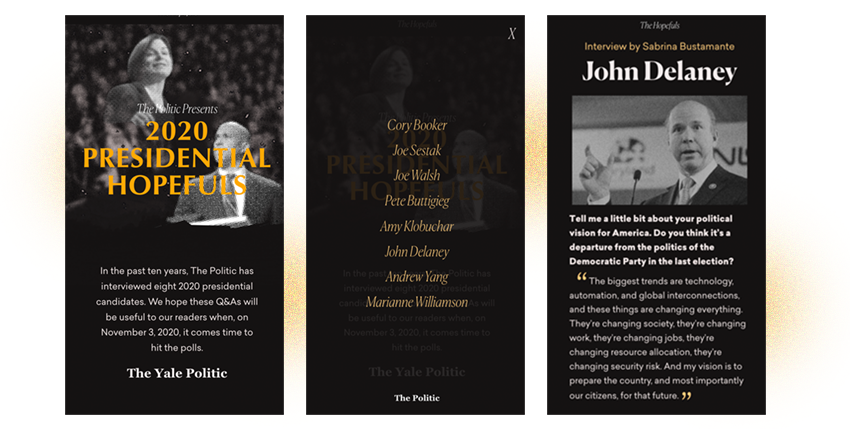
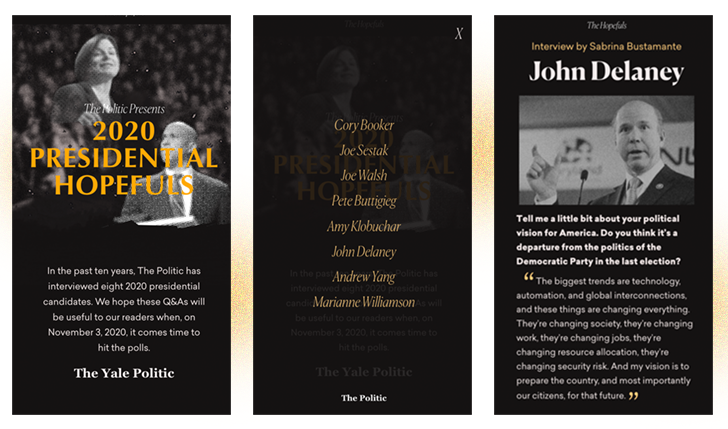
Adjust asset sizing, fix mobile errs

diff --git a/public/assets/styles/theme-portfolio.css b/public/assets/styles/theme-portfolio.css
@@ -1,5 +1,5 @@
 @import url(https://use.typekit.net/cuk4jse.css);
 @font-face{font-family:'Sporting Grotesque';src:url("https://chiaski.com/assets/fonts/Sporting%20Grotesque/SportingGrotesque-Bold.eot");src:url("https://chiaski.com/assets/fonts/Sporting%20Grotesque/SportingGrotesque-Bold.eot?#iefix") format("embedded-opentype"),url("https://chiaski.com/assets/fonts/Sporting%20Grotesque/SportingGrotesque-Bold.woff") format("woff"),url("https://chiaski.com/assets/fonts/Sporting%20Grotesque/SportingGrotesque-Bold.ttf") format("truetype"),url("https://chiaski.com/assets/fonts/Sporting%20Grotesque/SportingGrotesque-Bold.svg#SportingGrotesque-Bold") format("svg");font-weight:bold;font-style:normal}@font-face{font-family:'Sporting Grotesque';src:url("https://chiaski.com/assets/fonts/Sporting%20Grotesque/SportingGrotesque-Regular.eot");src:url("https://chiaski.com/assets/fonts/Sporting%20Grotesque/SportingGrotesque-Regular.eot?#iefix") format("embedded-opentype"),url("https://chiaski.com/assets/fonts/Sporting%20Grotesque/SportingGrotesque-Regular.woff") format("woff"),url("https://chiaski.com/assets/fonts/Sporting%20Grotesque/SportingGrotesque-Regular.ttf") format("truetype"),url("https://chiaski.com/assets/fonts/Sporting%20Grotesque/SportingGrotesque-Regular.svg#SportingGrotesque-Regular") format("svg");font-weight:normal;font-style:normal}@font-face{font-family:'Sporting Grotesque';src:url("https://chiaski.com/assets/fonts/Sporting%20Grotesque/SportingGrotesque-Bold_1.eot");src:url("https://chiaski.com/assets/fonts/Sporting%20Grotesque/SportingGrotesque-Bold_1.eot?#iefix") format("embedded-opentype"),url("https://chiaski.com/assets/fonts/Sporting%20Grotesque/SportingGrotesque-Bold_1.woff") format("woff"),url("https://chiaski.com/assets/fonts/Sporting%20Grotesque/SportingGrotesque-Bold_1.ttf") format("truetype"),url("https://chiaski.com/assets/fonts/Sporting%20Grotesque/SportingGrotesque-Bold_1.svg#SportingGrotesque-Bold") format("svg");font-weight:bold;font-style:normal}@font-face{font-family:'Sporting Grotesque';src:url("https://chiaski.com/assets/fonts/Sporting%20Grotesque/SportingGrotesque-Regular_1.eot");src:url("https://chiaski.com/assets/fonts/Sporting%20Grotesque/SportingGrotesque-Regular_1.eot?#iefix") format("embedded-opentype"),url("https://chiaski.com/assets/fonts/Sporting%20Grotesque/SportingGrotesque-Regular_1.woff") format("woff"),url("https://chiaski.com/assets/fonts/Sporting%20Grotesque/SportingGrotesque-Regular_1.ttf") format("truetype"),url("https://chiaski.com/assets/fonts/Sporting%20Grotesque/SportingGrotesque-Regular_1.svg#SportingGrotesque-Regular") format("svg");font-weight:normal;font-style:normal}@font-face{font-family:'Sporting Grotesque';src:url("https://chiaski.com/assets/fonts/Sporting%20Grotesque/font.eot");src:url("https://chiaski.com/assets/fonts/Sporting%20Grotesque/font.eot?#iefix") format("embedded-opentype"),url("https://chiaski.com/assets/fonts/Sporting%20Grotesque/font.woff") format("woff"),url("https://chiaski.com/assets/fonts/Sporting%20Grotesque/font.ttf") format("truetype"),url("https://chiaski.com/assets/fonts/Sporting%20Grotesque/font.svg#font") format("svg");font-weight:bold;font-style:normal}@font-face{font-family:'Sporting Grotesque';src:url("https://chiaski.com/assets/fonts/Sporting%20Grotesque/font_1.eot");src:url("https://chiaski.com/assets/fonts/Sporting%20Grotesque/font_1.eot?#iefix") format("embedded-opentype"),url("https://chiaski.com/assets/fonts/Sporting%20Grotesque/font_1.woff") format("woff"),url("https://chiaski.com/assets/fonts/Sporting%20Grotesque/font_1.ttf") format("truetype"),url("https://chiaski.com/assets/fonts/Sporting%20Grotesque/font_1.svg#font") format("svg");font-weight:normal;font-style:normal}@font-face{font-family:'Sporting Grotesque';src:url("https://chiaski.com/assets/fonts/Sporting%20Grotesque/SportingGrotesque-Bold_2.eot");src:url("https://chiaski.com/assets/fonts/Sporting%20Grotesque/SportingGrotesque-Bold_2.eot?#iefix") format("embedded-opentype"),url("https://chiaski.com/assets/fonts/Sporting%20Grotesque/SportingGrotesque-Bold_2.woff") format("woff"),url("https://chiaski.com/assets/fonts/Sporting%20Grotesque/SportingGrotesque-Bold_2.ttf") format("truetype"),url("https://chiaski.com/assets/fonts/Sporting%20Grotesque/SportingGrotesque-Bold_2.svg#SportingGrotesque-Bold") format("svg");font-weight:bold;font-style:normal}@font-face{font-family:'Sporting Grotesque';src:url("https://chiaski.com/assets/fonts/Sporting%20Grotesque/SportingGrotesque-Regular_2.eot");src:url("https://chiaski.com/assets/fonts/Sporting%20Grotesque/SportingGrotesque-Regular_2.eot?#iefix") format("embedded-opentype"),url("https://chiaski.com/assets/fonts/Sporting%20Grotesque/SportingGrotesque-Regular_2.woff") format("woff"),url("https://chiaski.com/assets/fonts/Sporting%20Grotesque/SportingGrotesque-Regular_2.ttf") format("truetype"),url("https://chiaski.com/assets/fonts/Sporting%20Grotesque/SportingGrotesque-Regular_2.svg#SportingGrotesque-Regular") format("svg");font-weight:normal;font-style:normal}@font-face{font-family:'Sporting Grotesque';src:url("https://chiaski.com/assets/fonts/Sporting%20Grotesque/SportingGrotesque-Regular_3.eot");src:url("https://chiaski.com/assets/fonts/Sporting%20Grotesque/SportingGrotesque-Regular_3.eot?#iefix") format("embedded-opentype"),url("https://chiaski.com/assets/fonts/Sporting%20Grotesque/SportingGrotesque-Regular_3.woff") format("woff"),url("https://chiaski.com/assets/fonts/Sporting%20Grotesque/SportingGrotesque-Regular_3.ttf") format("truetype"),url("https://chiaski.com/assets/fonts/Sporting%20Grotesque/SportingGrotesque-Regular_3.svg#SportingGrotesque-Regular") format("svg");font-weight:normal;font-style:normal}@font-face{font-family:'Sporting Grotesque';src:url("https://chiaski.com/assets/fonts/Sporting%20Grotesque/SportingGrotesque-Bold_3.eot");src:url("https://chiaski.com/assets/fonts/Sporting%20Grotesque/SportingGrotesque-Bold_3.eot?#iefix") format("embedded-opentype"),url("https://chiaski.com/assets/fonts/Sporting%20Grotesque/SportingGrotesque-Bold_3.woff") format("woff"),url("https://chiaski.com/assets/fonts/Sporting%20Grotesque/SportingGrotesque-Bold_3.ttf") format("truetype"),url("https://chiaski.com/assets/fonts/Sporting%20Grotesque/SportingGrotesque-Bold_3.svg#SportingGrotesque-Bold") format("svg");font-weight:bold;font-style:normal}
 
-::-moz-selection{background:#161f8d;color:#f8eded}::selection{background:#161f8d;color:#f8eded}html{scroll-behavior:smooth}#footer{background:#001a19;box-sizing:border-box;text-align:center;width:100%;padding:2em;margin-top:2em;display:block}#footer a{font-family:"Sporting Grotesque";text-decoration:none;display:inline-block}#footer .main-link{color:#f2e4e4 !important;display:block;font-size:1.2em;-webkit-transition:all .3s linear;-moz-transition:all .3s linear;-ms-transition:all .3s linear;-o-transition:all .3s linear;transition:all .3s linear}#footer .main-link:hover{color:yellow !important}#footer .footer-links{color:#fff}#footer .footer-links h2{font-size:1em;font-family:"aktiv-grotesk-extended"}#footer .footer-links a{color:blue;font-size:.8em;line-height:1.2em;margin:0 .3em 0 .3em}#footer .sub-link{font-family:"aktiv-grotesk-extended";color:#f0f8f7;padding:.3em;-webkit-transition:all .3s linear;-moz-transition:all .3s linear;-ms-transition:all .3s linear;-o-transition:all .3s linear;transition:all .3s linear}#footer .sub-link:hover{background:#f0f8f7;color:#000}a{text-decoration:none}img{max-width:100%;align-content:center;justify-content:center;vertical-align:center;margin:auto;display:block;padding:1em}#navigation .white a{color:#f0f8f7}.box{background:none;width:100%;margin:0 !important}.box-inner{margin:2em !important}.box-still{position:fixed;top:0}.portfolio-landing{-webkit-transition:all .3s linear;-moz-transition:all .3s linear;-ms-transition:all .3s linear;-o-transition:all .3s linear;transition:all .3s linear}.portfolio-landing:hover{filter:grayscale(0.5)}.portfolio-landing:hover h1{color:transparent !important;-webkit-text-stroke:1px #f0f8f7}#portfolio{cursor:none !important}#portfolio .portfolio-links{text-align:center;padding:1em}#portfolio .portfolio-links a{font-family:"aktiv-grotesk-extended";padding:.5em !important;background:none !important;color:#2d1080 !important;border-bottom:1px solid #2d1080}#portfolio .portfolio-links a:hover{background:yellow !important;border:none}#portfolio .portfolio-landing{vertical-align:center;justify-content:center;padding:1em}#portfolio .portfolio-landing h1{text-align:center;font-size:3.2em;color:#f0f8f7;flex-basis:100%}#portfolio .portfolio-landing h3{font-size:1.3em;font-family:"aktiv-grotesk-extended"}#portfolio .portfolio-landing p{margin:.5em}#portfolio .portfolio-landing .portfolio-overview{text-align:center}#portfolio .portfolio-landing .portfolio-overview p{font-size:.9em;font-family:"Aktiv-grotesk-extended";line-height:1.1em}#portfolio .portfolio-landing .project-contents{display:block;padding:1em;text-align:center}#portfolio .portfolio-landing .project-contents a{display:inline-block;max-width:130px;margin:0 .6em 0 .6em;font-family:"Sporting Grotesque";font-size:.8em;border-bottom:1px solid #f4e9e9;line-height:1em;padding:.3em;text-decoration:none;-webkit-transition:all .3s linear;-moz-transition:all .3s linear;-ms-transition:all .3s linear;-o-transition:all .3s linear;transition:all .3s linear;color:#f0f8f7}#portfolio .portfolio-landing .project-contents a:hover{background:#f0f8f7;color:#000;text-decoration:none}@media only screen and (max-width: 600px){#portfolio .portfolio-landing .project-contents{display:block;float:none;margin:1em;margin-top:50px}#portfolio .portfolio-landing .portfolio-overview{float:none}}#portfolio .portfolio-last h3{text-align:center}#portfolio .portfolio-description a{background:#2b13af;padding:.1em;text-decoration:none;color:#fdf6f6;-webkit-transition:all .3s linear;-moz-transition:all .3s linear;-ms-transition:all .3s linear;-o-transition:all .3s linear;transition:all .3s linear}#portfolio .portfolio-description a:hover{background:yellow;color:#262c2b}#portfolio .portfolio-description h1{font-size:1.8em;padding:0;max-width:650px;padding:0 0 .3em 0}#portfolio .portfolio-description h2{font-family:"aktiv-grotesk-extended";font-weight:800;font-size:.9em;text-transform:uppercase;letter-spacing:.7px;font-weight:400;color:#2b312f;padding:1.5em 0 0 0}#portfolio .portfolio-description h3{font-size:1.3em;font-family:"aktiv-grotesk-extended";padding-top:1em}@media only screen and (max-width: 600px){#portfolio .portfolio-description p{padding-right:0 !important}}#portfolio .portfolio-description p{font-size:.9em !important;color:#435262;line-height:1.9em;margin:.3em 1.3em .3em .3em;padding-right:15%;padding-left:.2em;padding-bottom:1em}#portfolio .portfolio-description p strong{font-family:"aktiv-grotesk-extended";font-weight:800;border-bottom:1px solid #f0f8f7}#portfolio .portfolio-description .side-description{float:right;display:inline-block;width:200px;margin:1.2em 1.5em 1.2em 1.2em;border-top:1px solid #96979b;border-bottom:1px solid #96979b;color:#262c2b}#portfolio .portfolio-description .side-description p{padding:.3em;margin:0}#portfolio .portfolio-description .description{background:#262c2b;padding:1.4em;line-height:1.4em;font-size:1em;margin-bottom:1em;color:#f0f8f7}#portfolio .portfolio-description blockquote{box-sizing:border-box;font-size:1em !important;padding:1em;margin-bottom:2em;border-top:1px solid #262c2b;border-bottom:1px solid #262c2b;color:#605757;line-height:1.5em}#portfolio .portfolio-description blockquote h3{margin:0;font-family:"aktiv-grotesk-extended";font-size:19px}.quote-block{text-align:center !important;color:#2c2929;font-size:2.5em;padding:1em 10% .5em 10%;font-family:moret, serif}.persona{border-bottom:1px solid #c8dee3;margin:1em}.persona h3{font-family:'Sporting Grotesque' !important}.p-emphasis{font-weight:800;max-width:70%;font-family:moret !important;margin:auto;text-align:center}.p-summary{padding:.5em 3em 3em 3em !important;max-width:650px;line-height:1.5em;font-size:1.2em !important;box-sizing:border-box}.summary{padding-right:0 !important;width:60%;line-height:1.4em !important}.summary-add{text-align:left;display:block;padding:.2em;width:80%;max-width:600px;font-size:.9em;margin-bottom:.3em}.summary-add strong{font-weight:800;font-family:'Sporting Grotesque';font-size:1em;padding-right:.5em;line-height:1.1em}.portfolio-large{margin:4em 0 2em 0 !important;padding:1em;min-height:250px;background-size:cover;background-repeat:no-repeat;background-position:center;display:flex;vertical-align:center}.portfolio-large .portfolio-large-center{margin:auto}.portfolio-large h1{text-align:center !important;font-size:2em !important;line-height:1em}.portfolio-large a{font-size:1.2em;background:#000 !important;padding:.5em !important;font-family:"Aktiv Grotesk";letter-spacing:.05em}.portfolio-large a:hover{background:#f0f8f7 !important;color:#000 !important}.header{position:fixed}.header-alt .header-left a{color:#f0f8f7 !important}.header-alt .header-right a{text-decoration:none;color:#cbf3ff}.alt{color:#f0f8f7 !important}.alt #footer{background:none}.alt .box{background:#001a19;color:#f0f8f7}.alt h2{color:#eff7f4 !important}.alt #portfolio{color:#e3eaf0 !important}.alt #portfolio p{color:#ebf6f7 !important}.alt .quote-block{color:#f7eaea !important}.alt blockquote{color:#dcddea !important}#sticky-header.alt{background:#001a19 !important}#sticky-header.alt h2{color:#eff7f4 !important;line-height:1em;font-size:.8em;letter-spacing:.1em;text-transform:none}#sticky-header{width:100%;padding:1em}#sticky-header h2{line-height:1em;margin-top:-2em;font-size:.8em}.sticky{top:0;padding:1em}.cursor.alt{background-color:#477775}.cursor{background-color:#0d3b39;mix-blend-mode:exclusion !important}.cursor.is-hovering{background-color:red;mix-blend-mode:difference}.portfolio-landing{font-family:"aktiv-grotesk-extended";vertical-align:center;justify-content:center;align-content:center;display:flex;flex-wrap:wrap}.portfolio-landing h1{color:#001a19;font-size:3em;line-height:1.2em}.portfolio-landing p{text-align:center;font-family:"aktiv-grotesk-extended";font-size:1.1em;margin:0;max-width:500px !important}.portfolio-landing .portfolio-overview a{font-family:"aktiv-grotesk-extended";font-size:.9em}.portfolio-project-container{display:flex;flex-wrap:wrap;vertical-align:center;text-align:center;align-items:center;justify-content:center}.portfolio-project-container img{padding:0;max-width:100%}.portfolio-project-container .project-box:hover{filter:grayscale(1)}.portfolio-project-container .project-box{max-width:600px;margin:0 0 3em 0;display:block;text-decoration:none;-webkit-transition:all .3s linear;-moz-transition:all .3s linear;-ms-transition:all .3s linear;-o-transition:all .3s linear;transition:all .3s linear}.portfolio-project-container .project-box-desc{z-index:10000000 !important;text-align:left}.portfolio-project-container .quote-block{font-family:"Aktiv Grotesk";max-width:550px !important;color:#484855;margin:0 !important;padding:0 !important;font-size:1.3em !important;text-align:left !important}.portfolio-project-container h2{padding:.5em 0 0 0;margin:0 0 -.3em 0;font-family:"Sporting Grotesque";font-size:1.6em;color:#222127}.portfolio-project-container h3{font-family:"aktiv-grotesk-extended";font-size:.7em;color:#40444b;margin:.5em 0 0 0}@media only screen and (max-width: 600px){.portfolio-project-container .quote-block{font-size:1em !important}}
+::-moz-selection{background:#161f8d;color:#f8eded}::selection{background:#161f8d;color:#f8eded}html{scroll-behavior:smooth}#footer{background:#001a19;box-sizing:border-box;text-align:center;width:100%;padding:2em;margin-top:2em;display:block}#footer a{font-family:"Sporting Grotesque";text-decoration:none;display:inline-block}#footer .main-link{color:#f2e4e4 !important;display:block;font-size:1.2em;-webkit-transition:all .3s linear;-moz-transition:all .3s linear;-ms-transition:all .3s linear;-o-transition:all .3s linear;transition:all .3s linear}#footer .main-link:hover{color:yellow !important}#footer .footer-links{color:#fff}#footer .footer-links h2{font-size:1em;font-family:"aktiv-grotesk-extended"}#footer .footer-links a{color:blue;font-size:.8em;line-height:1.2em;margin:0 .3em 0 .3em}#footer .sub-link{font-family:"aktiv-grotesk-extended";color:#f0f8f7;padding:.3em;-webkit-transition:all .3s linear;-moz-transition:all .3s linear;-ms-transition:all .3s linear;-o-transition:all .3s linear;transition:all .3s linear}#footer .sub-link:hover{background:#f0f8f7;color:#000}a{text-decoration:none}img{max-width:100%;align-content:center;justify-content:center;vertical-align:center;margin:auto;display:block;padding:1em}#navigation .white a{color:#f0f8f7}.box{background:none;width:100%;margin:0 !important}.box-inner{margin:2em !important}.box-still{position:fixed;top:0}.portfolio-landing{-webkit-transition:all .3s linear;-moz-transition:all .3s linear;-ms-transition:all .3s linear;-o-transition:all .3s linear;transition:all .3s linear}.portfolio-landing:hover{filter:grayscale(0.5)}.portfolio-landing:hover h1{color:transparent !important;-webkit-text-stroke:1px #f0f8f7}#portfolio{cursor:none !important}#portfolio .portfolio-links{text-align:center;padding:1em}#portfolio .portfolio-links a{font-family:"aktiv-grotesk-extended";padding:.5em !important;background:none !important;color:#2d1080 !important;border-bottom:1px solid #2d1080}#portfolio .portfolio-links a:hover{background:yellow !important;border:none}#portfolio .portfolio-landing{vertical-align:center;justify-content:center;padding:1em}#portfolio .portfolio-landing h1{text-align:center;font-size:3.2em;color:#f0f8f7;flex-basis:100%}#portfolio .portfolio-landing h3{font-size:1.3em;font-family:"aktiv-grotesk-extended"}#portfolio .portfolio-landing p{margin:.5em}#portfolio .portfolio-landing .portfolio-overview{text-align:center}#portfolio .portfolio-landing .portfolio-overview p{font-size:.9em;font-family:"Aktiv-grotesk-extended";line-height:1.1em}#portfolio .portfolio-landing .project-contents{display:block;padding:1em;text-align:center}#portfolio .portfolio-landing .project-contents a{display:inline-block;max-width:130px;margin:0 .6em 0 .6em;font-family:"Sporting Grotesque";font-size:.8em;border-bottom:1px solid #f4e9e9;line-height:1em;padding:.3em;text-decoration:none;-webkit-transition:all .3s linear;-moz-transition:all .3s linear;-ms-transition:all .3s linear;-o-transition:all .3s linear;transition:all .3s linear;color:#f0f8f7}#portfolio .portfolio-landing .project-contents a:hover{background:#f0f8f7;color:#000;text-decoration:none}@media only screen and (max-width: 600px){#portfolio .portfolio-landing .project-contents{display:block;float:none;margin:1em;margin-top:50px}#portfolio .portfolio-landing .portfolio-overview{float:none}}#portfolio .portfolio-last h3{text-align:center}#portfolio .portfolio-description a{background:#2b13af;padding:.1em;text-decoration:none;color:#fdf6f6;-webkit-transition:all .3s linear;-moz-transition:all .3s linear;-ms-transition:all .3s linear;-o-transition:all .3s linear;transition:all .3s linear}#portfolio .portfolio-description a:hover{background:yellow;color:#262c2b}#portfolio .portfolio-description h1{font-size:1.8em;padding:0;max-width:650px;padding:0 0 .3em 0}#portfolio .portfolio-description h2{font-family:"aktiv-grotesk-extended";font-weight:800;font-size:.9em;text-transform:uppercase;letter-spacing:.7px;font-weight:400;color:#2b312f;padding:1.5em 0 0 0}#portfolio .portfolio-description h3{font-size:1.3em;font-family:"aktiv-grotesk-extended";padding-top:1em}@media only screen and (max-width: 600px){#portfolio .portfolio-description p{padding-right:0 !important}}#portfolio .portfolio-description p{font-size:.9em !important;color:#435262;line-height:1.9em;margin:.3em 1.3em .3em .3em;padding-right:15%;padding-left:.2em;padding-bottom:1em}#portfolio .portfolio-description p strong{font-family:"aktiv-grotesk-extended";font-weight:800;border-bottom:1px solid #f0f8f7}#portfolio .portfolio-description .side-description{float:right;display:inline-block;width:200px;margin:1.2em 1.5em 1.2em 1.2em;border-top:1px solid #96979b;border-bottom:1px solid #96979b;color:#262c2b}#portfolio .portfolio-description .side-description p{padding:.3em;margin:0}#portfolio .portfolio-description .description{background:#262c2b;padding:1.4em;line-height:1.4em;font-size:1em;margin-bottom:1em;color:#f0f8f7}#portfolio .portfolio-description blockquote{box-sizing:border-box;font-size:1em !important;padding:1em;margin-bottom:2em;border-top:1px solid #262c2b;border-bottom:1px solid #262c2b;color:#605757;line-height:1.5em}#portfolio .portfolio-description blockquote h3{margin:0;font-family:"aktiv-grotesk-extended";font-size:19px}.quote-block{text-align:center !important;color:#2c2929;font-size:2.5em;padding:1em 10% .5em 10%;font-family:moret, serif}.persona{border-bottom:1px solid #c8dee3;margin:1em}.persona h3{font-family:'Sporting Grotesque' !important}.p-emphasis{font-weight:800;max-width:70%;font-family:moret !important;margin:auto;text-align:center}.p-summary{padding:.5em 3em 3em 3em !important;max-width:650px;line-height:1.5em;font-size:1.2em !important;box-sizing:border-box}.summary{padding-right:0 !important;width:60%;line-height:1.4em !important}.summary-add{text-align:left;display:block;padding:.2em;width:80%;max-width:600px;font-size:.9em;margin-bottom:.3em}.summary-add strong{font-weight:800;font-family:'Sporting Grotesque';font-size:1em;padding-right:.5em;line-height:1.1em}.portfolio-large{margin:4em 0 2em 0 !important;padding:1em;min-height:250px;background-size:cover;background-repeat:no-repeat;background-position:center;display:flex;vertical-align:center}.portfolio-large .portfolio-large-center{margin:auto}.portfolio-large h1{text-align:center !important;font-size:2em !important;line-height:1em}.portfolio-large a{font-size:1.2em;background:#000 !important;padding:.5em !important;font-family:"Aktiv Grotesk";letter-spacing:.05em}.portfolio-large a:hover{background:#f0f8f7 !important;color:#000 !important}.header{position:fixed}.header-alt .header-left a{color:#f0f8f7 !important}.header-alt .header-right a{text-decoration:none;color:#cbf3ff}.alt{color:#f0f8f7 !important}.alt #footer{background:none}.alt .box{background:#001a19;color:#f0f8f7}.alt h2{color:#eff7f4 !important}.alt #portfolio{color:#e3eaf0 !important}.alt #portfolio p{color:#ebf6f7 !important}.alt .quote-block{color:#f7eaea !important}.alt blockquote{color:#dcddea !important}#sticky-header.alt{background:#001a19 !important}#sticky-header.alt h2{color:#eff7f4 !important;line-height:1em;font-size:.8em;letter-spacing:.1em;text-transform:none}#sticky-header{width:100%;padding:1em}#sticky-header h2{line-height:1em;margin-top:-2em;font-size:.8em}.sticky{top:0;padding:1em}.cursor.alt{background-color:#477775}.cursor{background-color:#0d3b39;mix-blend-mode:exclusion !important}.cursor.is-hovering{background-color:red;mix-blend-mode:difference}.portfolio-landing{font-family:"aktiv-grotesk-extended";vertical-align:center;justify-content:center;align-content:center;display:flex;flex-wrap:wrap}.portfolio-landing h1{color:#001a19;font-size:3em;line-height:1.2em}.portfolio-landing p{text-align:center;font-family:"aktiv-grotesk-extended";font-size:1.1em;margin:0;max-width:500px !important}.portfolio-landing .portfolio-overview a{font-family:"aktiv-grotesk-extended";font-size:.9em}.portfolio-project-container{display:flex;flex-wrap:wrap;vertical-align:center;text-align:center;align-items:center;justify-content:center}.portfolio-project-container img{padding:0;max-width:100%}.portfolio-project-container .project-box:hover{filter:grayscale(1)}.portfolio-project-container .project-box{max-width:600px;margin:0 0 3em 0;display:block;text-decoration:none;-webkit-transition:all .3s linear;-moz-transition:all .3s linear;-ms-transition:all .3s linear;-o-transition:all .3s linear;transition:all .3s linear}.portfolio-project-container .project-box-desc{z-index:10000000 !important;text-align:left}.portfolio-project-container .quote-block{font-family:"aktiv-grotesk-extended";max-width:550px !important;color:#484855;margin:0 !important;padding:0 !important;font-size:1.1em !important;text-align:left !important}.portfolio-project-container h2{padding:.5em 0 0 0;margin:0 0 -.3em 0;font-family:"Sporting Grotesque";font-size:1.6em;color:#222127}.portfolio-project-container h3{font-family:"aktiv-grotesk-extended";font-size:.7em;color:#40444b;margin:.5em 0 0 0}@media only screen and (max-width: 600px){.portfolio-project-container .quote-block{font-size:1em !important}}
 

diff --git a/public/work.html b/public/work.html
@@ -34,7 +34,7 @@
     <div class="box portfolio-page-landing" id="portfolio" style="min-height:70%;padding-top:1em;">
         <div class="box-inner inner-center special" style="max-width:770px;width:80%;">
             <center><h1>Chia is creating</h1>
-                <p>Supposedly, this is a good thing for you, me, and the world. </p> <!--Things like:  </center>
+                <p>Supposedly, this is a good thing for you, me, and the world. </p> </center> <!--Things like: 
             
             <div class="portfolio-overview">
                 <a href="#link-ibotoph">Voter education for the Philippine masses</a>
@@ -48,7 +48,7 @@
     </div>
     
     
-    <div class="box" style="margin-top:-4em !important;">
+    <div class="box" style="margin-top:-em !important;">
         <div class="box-inner inner-center" style="max-width:1000px;width:100%;">
             
         <div class="portfolio-project-container">

diff --git a/src/styles/portfolio.scss b/src/styles/portfolio.scss
@@ -611,12 +611,12 @@ img{
     
     .quote-block{
 
-        font-family:"Aktiv Grotesk";
+        font-family:"aktiv-grotesk-extended";
         max-width:550px !important;
         color:#484855;
         margin:0 !important;
         padding:0 !important;
-        font-size:1.3em !important;
+        font-size:1.1em !important;
         text-align: left !important;
     }
 
